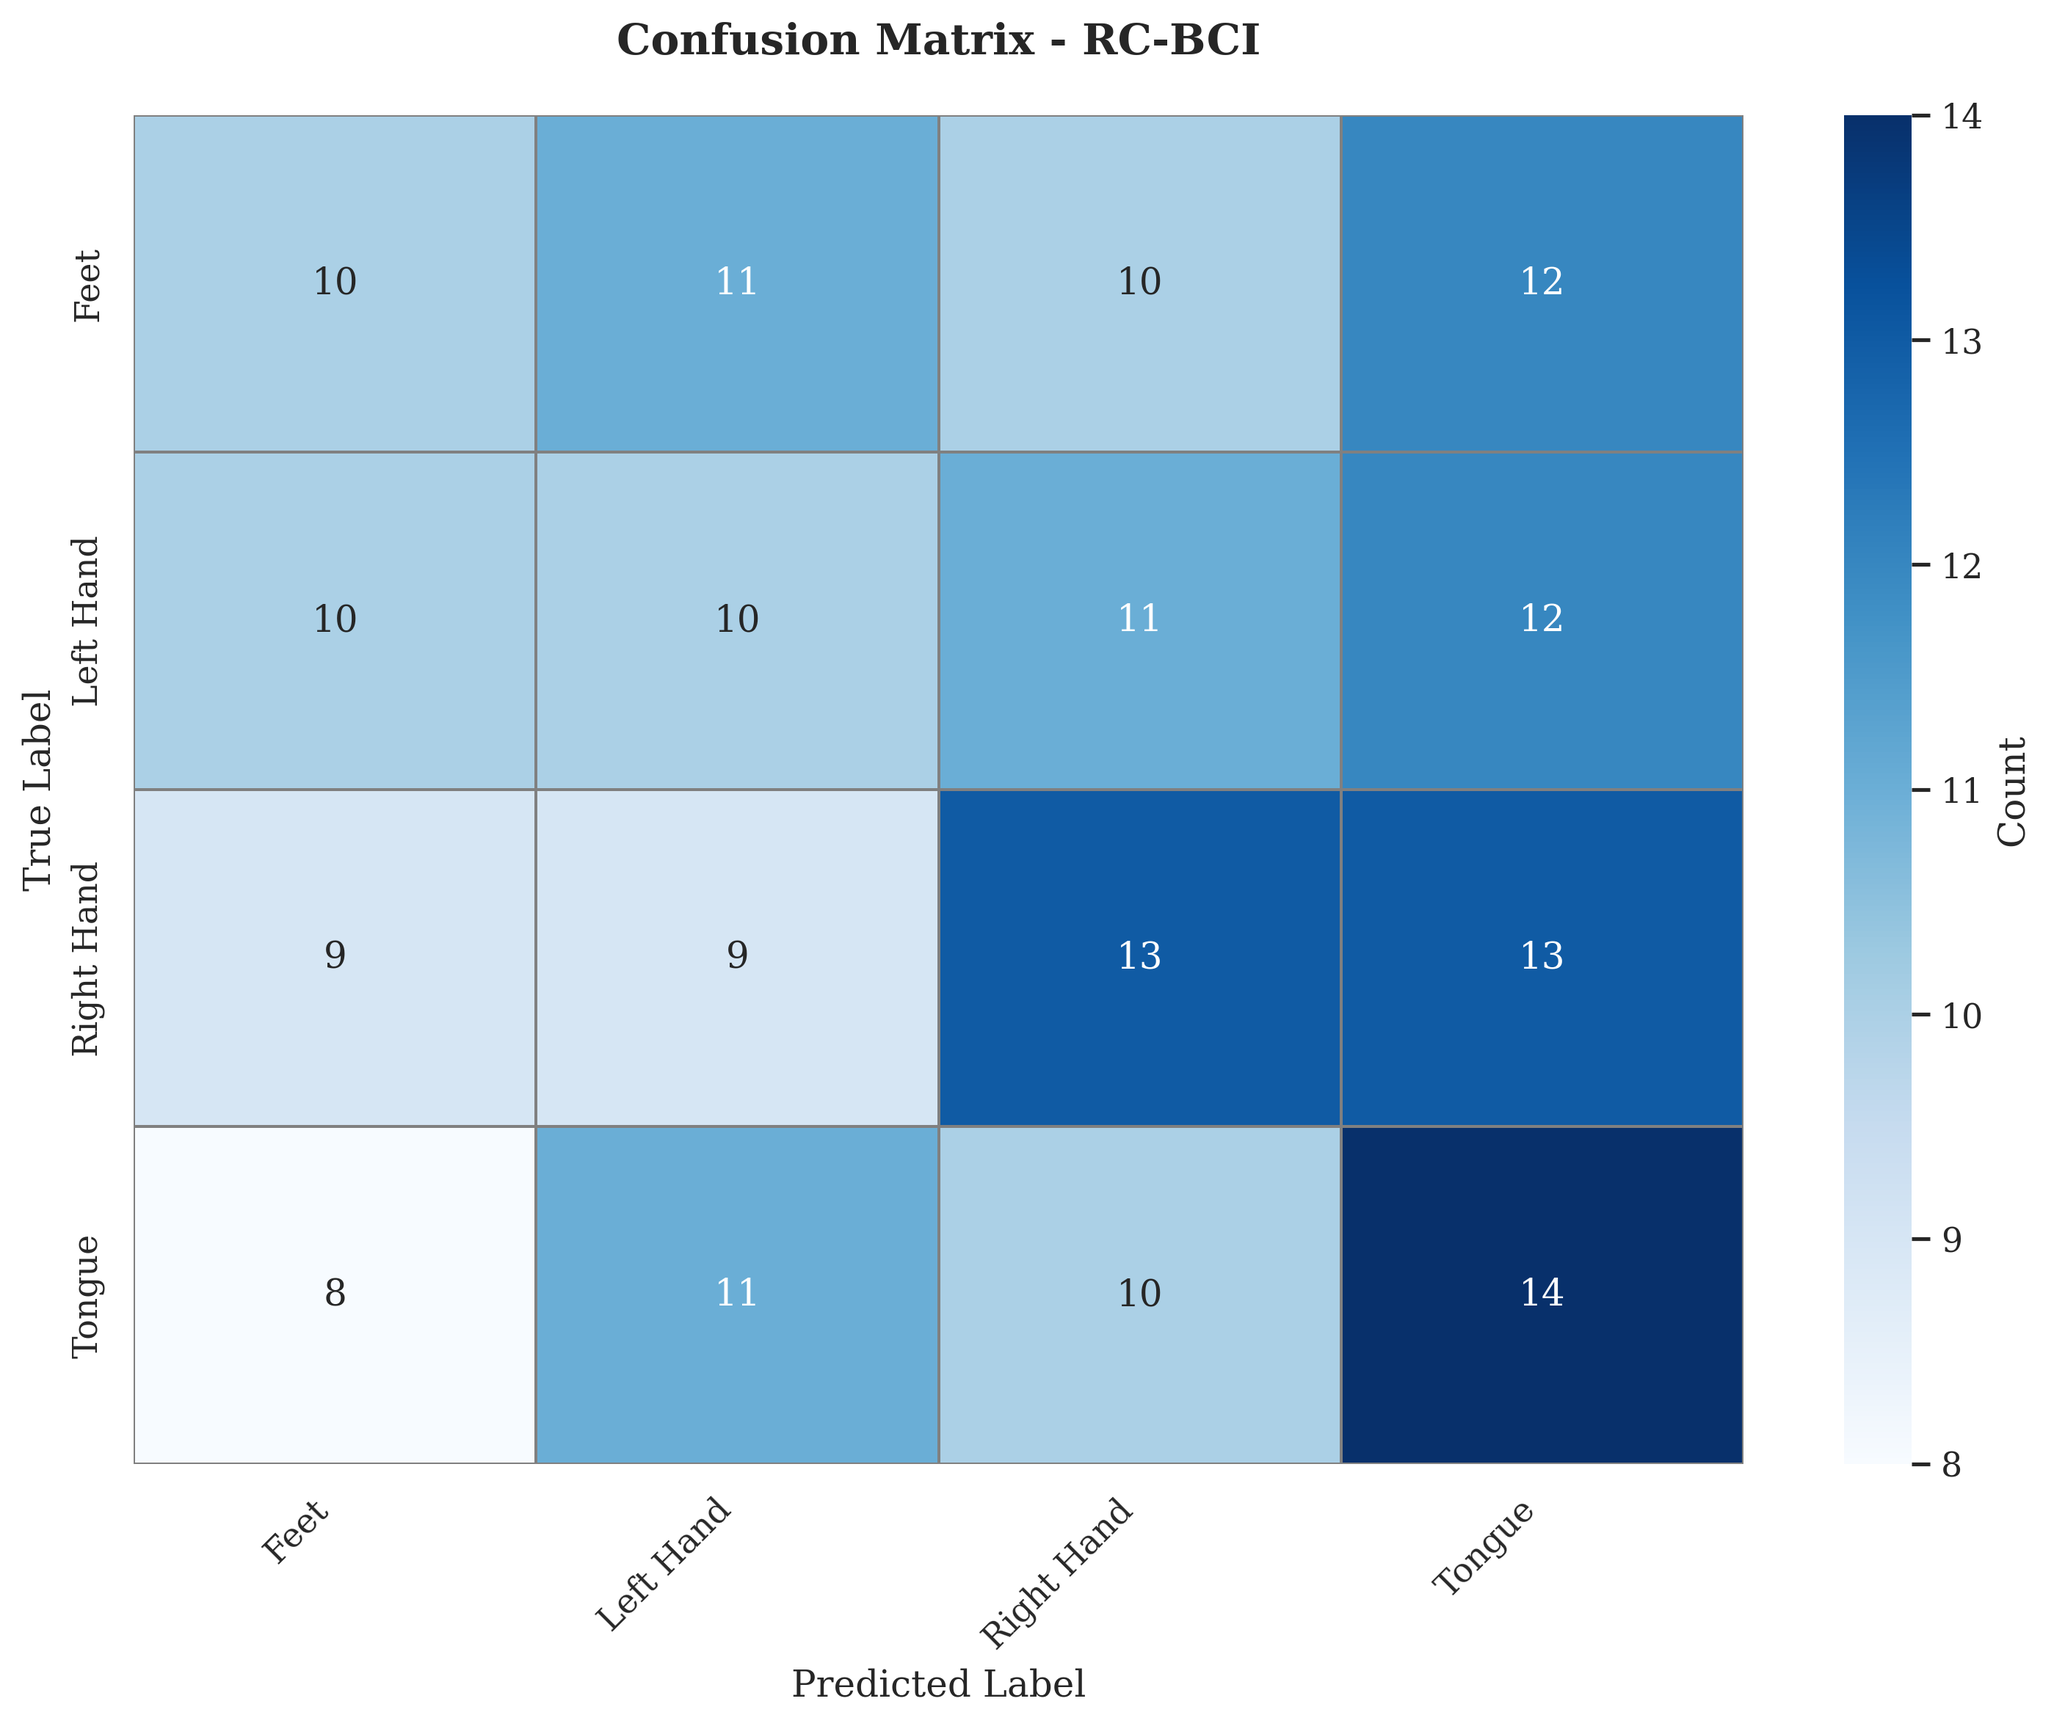
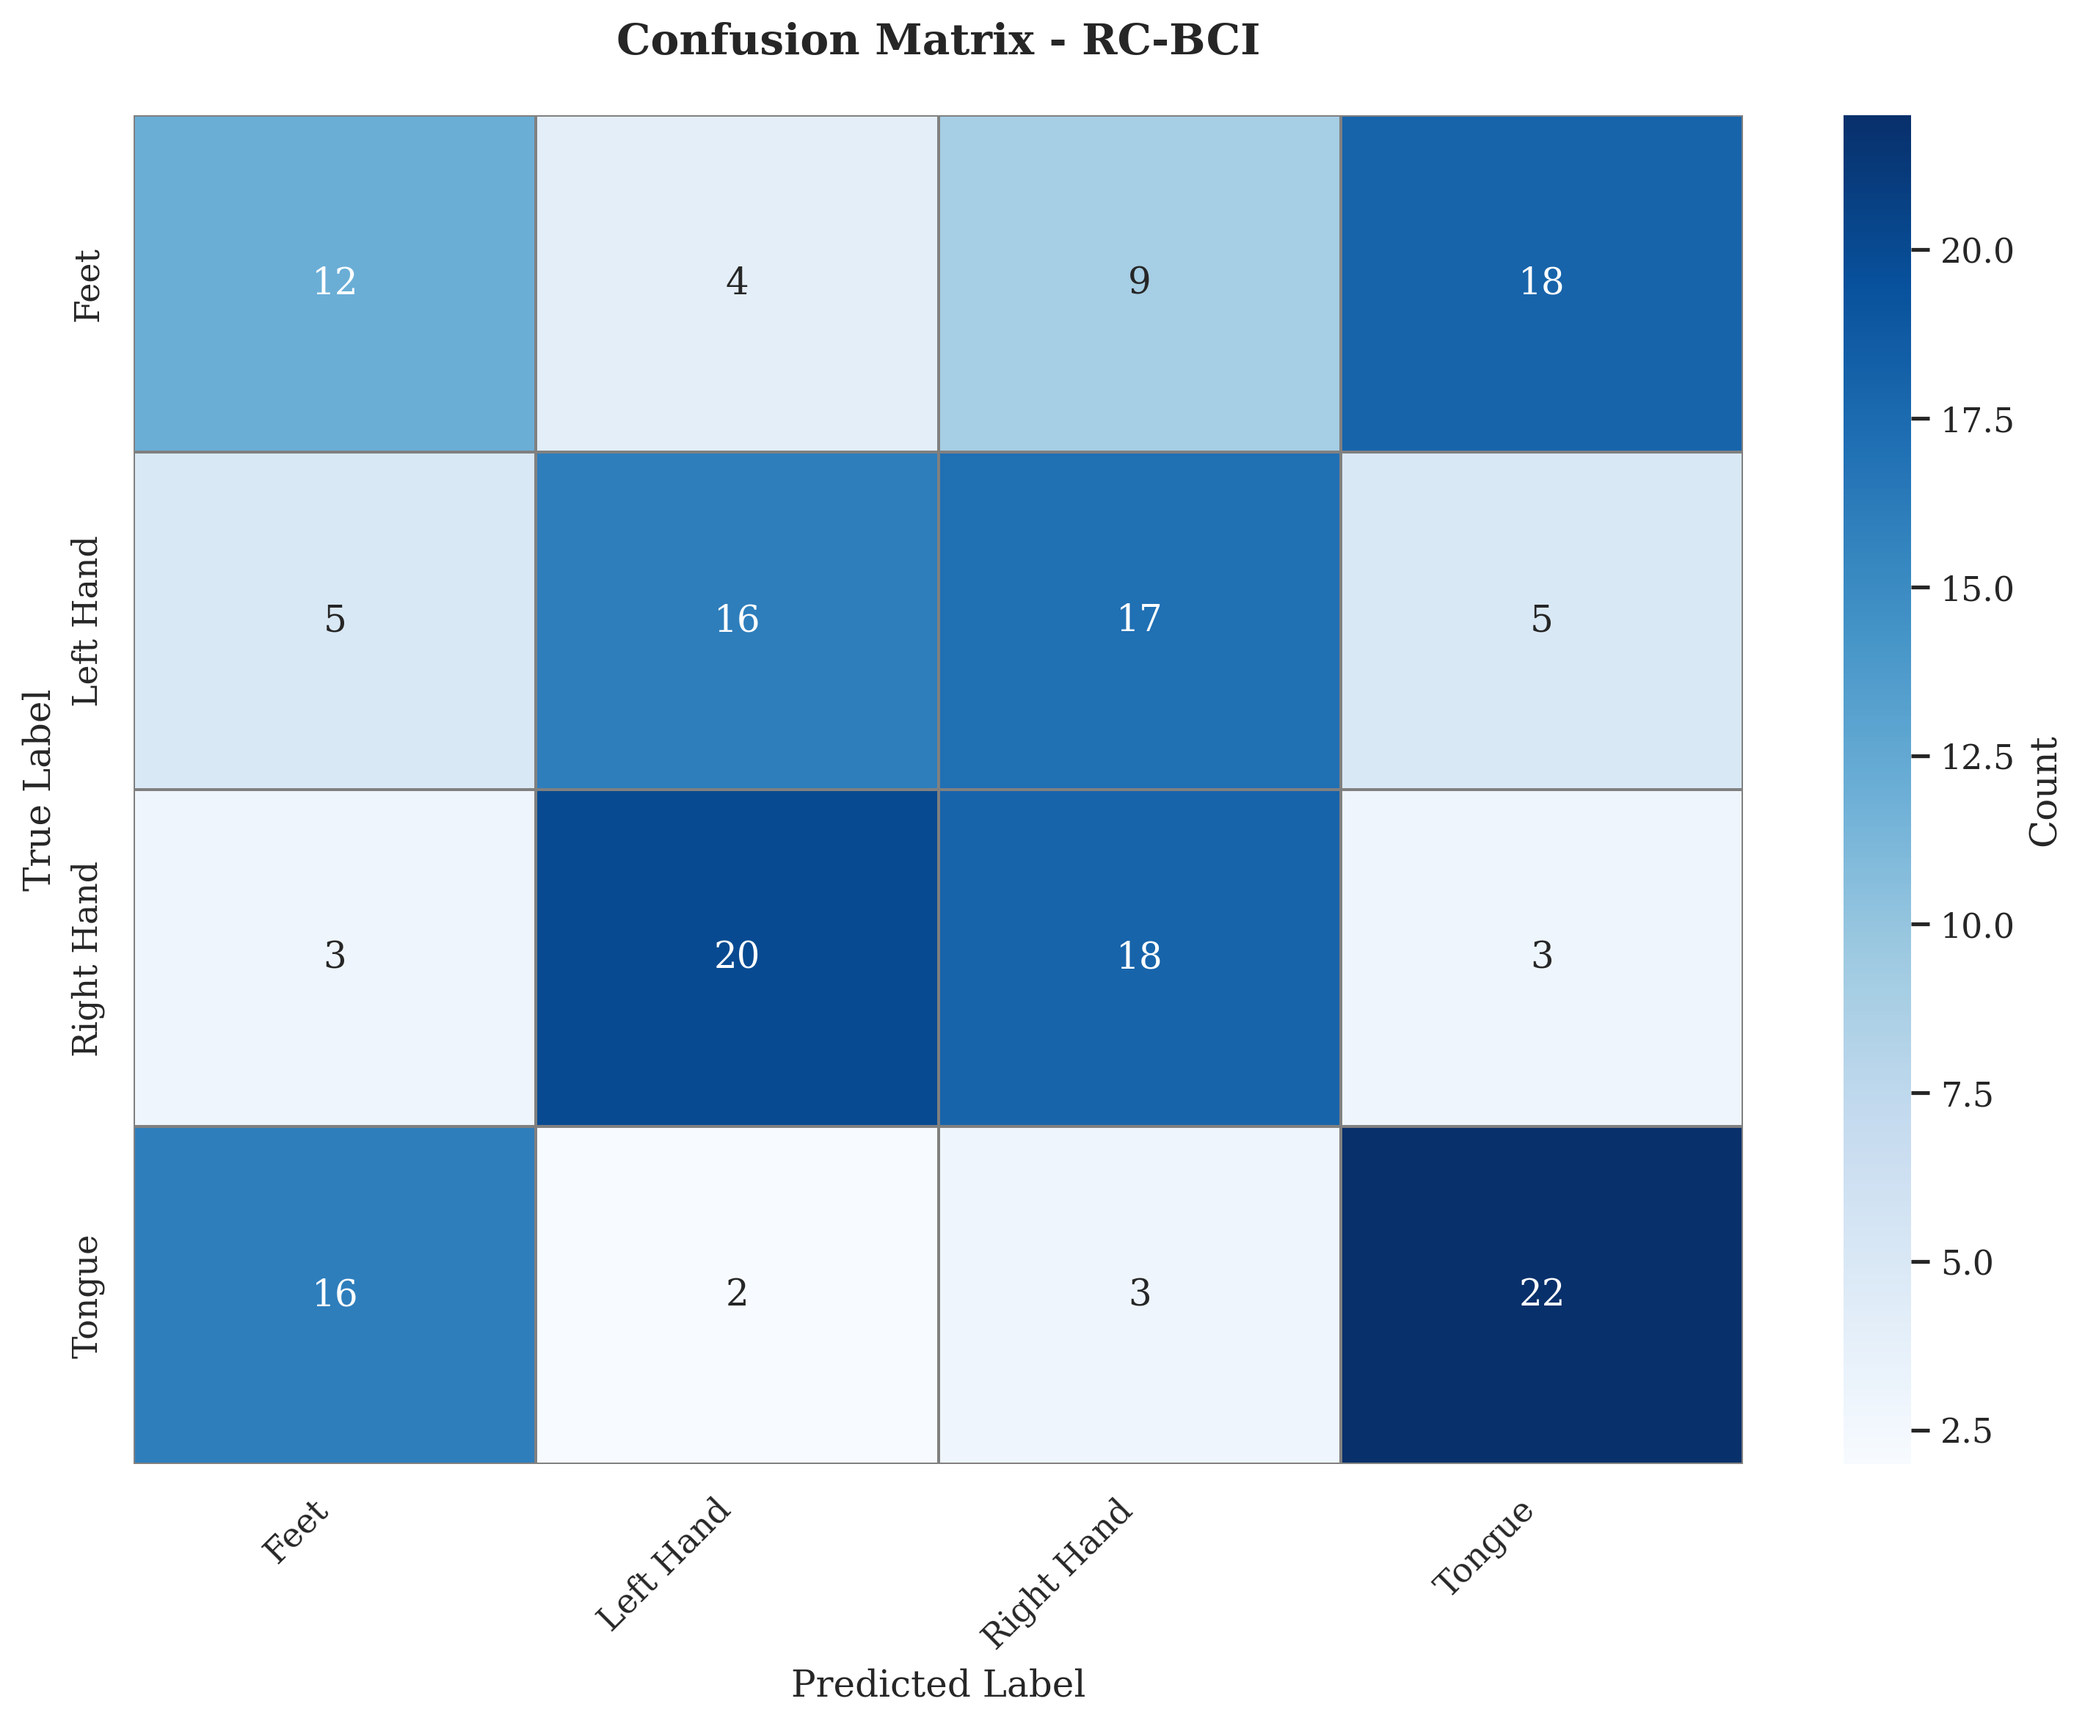
adding mean pooling instead of last reservoir state

diff --git a/bci_reservoir_computing.py b/bci_reservoir_computing.py
@@ -8,16 +8,15 @@ import warnings
 
 import matplotlib.pyplot as plt
 import numpy as np
-from sklearn.metrics import accuracy_score, classification_report, confusion_matrix
-from sklearn.model_selection import train_test_split
-
-warnings.filterwarnings("ignore")
-
 import seaborn as sns
 from moabb.datasets import BNCI2014_001
 from moabb.paradigms import MotorImagery
-from reservoirpy import set_seed, ESN
+from reservoirpy import ESN, set_seed
+from sklearn.metrics import accuracy_score, classification_report, confusion_matrix
+from sklearn.model_selection import train_test_split
+from sklearn.preprocessing import StandardScaler
 
+warnings.filterwarnings("ignore")
 set_seed(42)
 np.random.seed(42)
 
@@ -25,16 +24,10 @@ np.random.seed(42)
 class ReservoirBCI:
     """Simple Reservoir Computing for BCI using ESN class."""
 
-    def __init__(self, units=500, lr=0.3, sr=0.9, ridge=1e-6, input_scaling=0.5):
+    def __init__(self, units=1000, lr=0.05, sr=0.99, ridge=1e-5, input_scaling=1.0):
         # Use ESN class - combines Reservoir + Readout
-        self.esn = ESN(
-            units=units,
-            lr=lr,
-            sr=sr,
-            ridge=ridge,
-            input_scaling=input_scaling,
-            rc_connectivity=0.1
-        )
+        self.esn = ESN(units=units, lr=lr, sr=sr, ridge=ridge, input_scaling=input_scaling, rc_connectivity=0.1)
+        self.scaler = StandardScaler()
         self.label_mapping = None
 
     def fit(self, X_train, y_train):
@@ -45,9 +38,15 @@ class ReservoirBCI:
         """
         print(f"\nTraining with {len(X_train)} samples...")
 
+        # Normalize data
+        n_samples, n_channels, n_timepoints = X_train.shape
+        X_flat = X_train.reshape(n_samples, -1)
+        X_flat = self.scaler.fit_transform(X_flat)
+        X_train = X_flat.reshape(n_samples, n_channels, n_timepoints)
+
         # Convert labels to integers and one-hot encode
         y_encoded, self.label_mapping = self._encode_labels(y_train)
-        
+
         # One-hot encode targets
         n_classes = len(np.unique(y_encoded))
         y_onehot = np.zeros((len(y_encoded), n_classes))
@@ -55,18 +54,12 @@ class ReservoirBCI:
             y_onehot[i, label] = 1
 
         # Prepare data for ReservoirPy: list of (timesteps, features) arrays
-        # Current: (n_samples, channels, timepoints)
-        # Need: list of (timepoints, channels)
-        X_list = [X_train[i].T for i in range(len(X_train))]  # Transpose each sample
+        X_list = [X_train[i].T for i in range(len(X_train))]
         n_timesteps = X_list[0].shape[0]
-        y_list = []
-        for i in range(len(y_onehot)):
-            # Repeat target for all timesteps
-            y_sample = np.tile(y_onehot[i], (n_timesteps, 1))
-            y_list.append(y_sample)
+        y_list = [np.tile(y_onehot[i], (n_timesteps, 1)) for i in range(len(y_onehot))]
 
         print(f"Sample shape: {X_list[0].shape} (timesteps, channels)")
-        print(f"Target shape: {y_list[0].shape} (n_classes,)")
+        print(f"Target shape: {y_list[0].shape} (timesteps, n_classes)")
 
         # Train ESN
         print("Training ESN...")
@@ -79,17 +72,22 @@ class ReservoirBCI:
         Predict labels.
         X_test: (n_samples, n_channels, n_timepoints)
         """
+        # Normalize data
+        n_samples, n_channels, n_timepoints = X_test.shape
+        X_flat = X_test.reshape(n_samples, -1)
+        X_flat = self.scaler.transform(X_flat)
+        X_test = X_flat.reshape(n_samples, n_channels, n_timepoints)
+
         # Prepare data
         X_list = [X_test[i].T for i in range(len(X_test))]
 
         # Predict with ESN
         predictions = []
         for x in X_list:
-            pred = self.esn.run(x)  # Returns (timesteps, n_classes)
-            # Use last timestep prediction
-            predictions.append(pred[-1])
-        
-        predictions = np.array(predictions)  # (n_samples, n_classes)
+            pred = self.esn.run(x)
+            predictions.append(np.mean(pred, axis=0))
+
+        predictions = np.array(predictions)
         predictions = np.argmax(predictions, axis=1)
 
         # Convert back to original labels
@@ -120,7 +118,6 @@ def load_data(subject_id: int | None = 1):
     paradigm = MotorImagery(n_classes=4, fmin=7, fmax=35, tmin=0.0, tmax=4.0, resample=128)
 
     if subject_id is None:
-        # Taking all subjects
         X, y, _ = paradigm.get_data(dataset=dataset)
     else:
         X, y, _ = paradigm.get_data(dataset=dataset, subjects=[subject_id])
@@ -128,7 +125,6 @@ def load_data(subject_id: int | None = 1):
     print(f"\n✓ Loaded: {X.shape}")
     print(f"  Classes: {np.unique(y)}")
 
-    # Split
     X_train, X_test, y_train, y_test = train_test_split(X, y, test_size=0.3, random_state=42, stratify=y)
 
     print(f"  Train: {len(X_train)}")
@@ -141,41 +137,26 @@ def evaluate(y_true, y_pred):
     """Evaluate and plot results."""
     unique = np.unique(np.concatenate([y_true, y_pred]))
 
-    # Class names
     if isinstance(unique[0], (str, np.str_)):
         names = {"left_hand": "Left Hand", "right_hand": "Right Hand", "feet": "Feet", "tongue": "Tongue"}
         class_names = [names.get(str(l), str(l)) for l in unique]
     else:
         class_names = [f"Class {i}" for i in unique]
 
-    # Accuracy
     acc = accuracy_score(y_true, y_pred)
 
     print(f"\n{'=' * 60}")
     print(f"Test Accuracy: {acc * 100:.2f}%")
     print(f"{'=' * 60}\n")
 
-    # Report
     print(classification_report(y_true, y_pred, target_names=class_names, labels=unique))
 
-    # Confusion matrix
     cm = confusion_matrix(y_true, y_pred, labels=unique)
 
-    # Plot with seaborn
     plt.figure(figsize=(10, 8))
-    sns.heatmap(
-        cm,
-        annot=True,
-        fmt="d",
-        cmap="Blues",
-        xticklabels=class_names,
-        yticklabels=class_names,
-        cbar_kws={"label": "Count"},
-        linewidths=0.5,
-        linecolor="gray",
-    )
+    sns.heatmap(cm, annot=True, fmt="d", cmap="Blues", xticklabels=class_names, yticklabels=class_names)
 
-    plt.title("Confusion Matrix - RC-BCI", fontsize=14, fontweight="bold", pad=20)
+    plt.title("Confusion Matrix - RC-BCI", fontsize=14, fontweight="bold")
     plt.ylabel("True Label", fontsize=12)
     plt.xlabel("Predicted Label", fontsize=12)
     plt.xticks(rotation=45, ha="right")
@@ -186,7 +167,7 @@ def evaluate(y_true, y_pred):
 
 def compare_sizes(X_train, X_test, y_train, y_test):
     """Compare reservoir sizes."""
-    sizes = [100, 200, 500, 1000, 2000]
+    sizes = [500, 1000, 1500, 2000]
     results = {}
 
     print(f"\n{'=' * 60}")
@@ -195,14 +176,13 @@ def compare_sizes(X_train, X_test, y_train, y_test):
 
     for size in sizes:
         print(f"\nSize = {size}")
-        model = ReservoirBCI(units=size, lr=0.3, sr=0.9)
+        model = ReservoirBCI(units=size, lr=0.05, sr=0.99)
         model.fit(X_train, y_train)
         y_pred = model.predict(X_test)
         acc = accuracy_score(y_test, y_pred)
         results[size] = acc
         print(f"  Accuracy: {acc * 100:.2f}%")
 
-    # Plot
     plt.figure(figsize=(10, 6))
     plt.plot(list(results.keys()), [v * 100 for v in results.values()], "o-", linewidth=2, markersize=12, color="#2ecc71")
     plt.xlabel("Reservoir Size", fontsize=12)
@@ -219,35 +199,27 @@ def main():
     """Main execution."""
     print("\n" + "=" * 60)
     print("RESERVOIR COMPUTING FOR BCI")
-    print("Using ESN Class")
     print("=" * 60)
 
-    # Load
-    # set subject_id to None to use all subjects
     X_train, X_test, y_train, y_test = load_data(subject_id=1)
 
-    # Train
     print(f"\n{'=' * 60}")
     print("Training Model")
     print(f"{'=' * 60}")
 
-    model = ReservoirBCI(units=500, lr=0.3, sr=0.9, ridge=1e-6, input_scaling=0.5)
+    # Best config: larger reservoir, lower leak rate, higher spectral radius
+    model = ReservoirBCI(units=1000, lr=0.05, sr=0.99, ridge=1e-5, input_scaling=1.0)
     model.fit(X_train, y_train)
 
-    # Test
     print(f"\n{'=' * 60}")
     print("Testing Model")
     print(f"{'=' * 60}")
 
     y_pred = model.predict(X_test)
-
-    # Evaluate
     acc, cm = evaluate(y_test, y_pred)
 
-    # Compare
     results = compare_sizes(X_train, X_test, y_train, y_test)
 
-    # Summary
     print(f"\n{'=' * 60}")
     print("SUMMARY")
     print(f"{'=' * 60}")
@@ -255,7 +227,6 @@ def main():
     print(f"Best size: {max(results, key=results.get)} ({max(results.values()) * 100:.2f}%)")
     print(f"{'=' * 60}\n")
 
-    # Save
     plt.figure(1)
     plt.savefig("rc_bci_confusion_matrix.png", dpi=300, bbox_inches="tight")
     print("✓ Saved: rc_bci_confusion_matrix.png")
